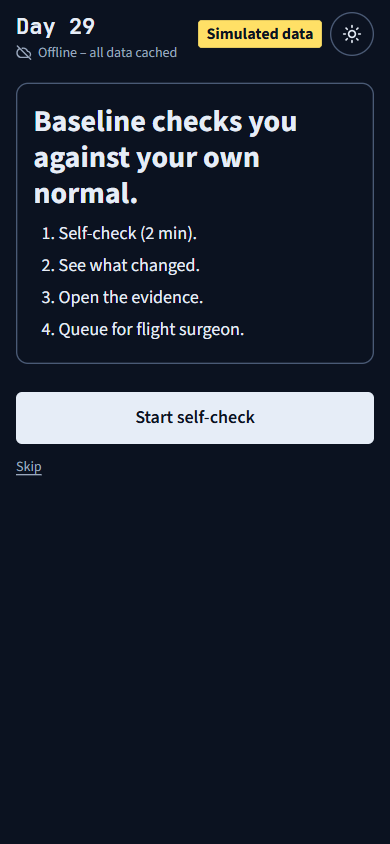
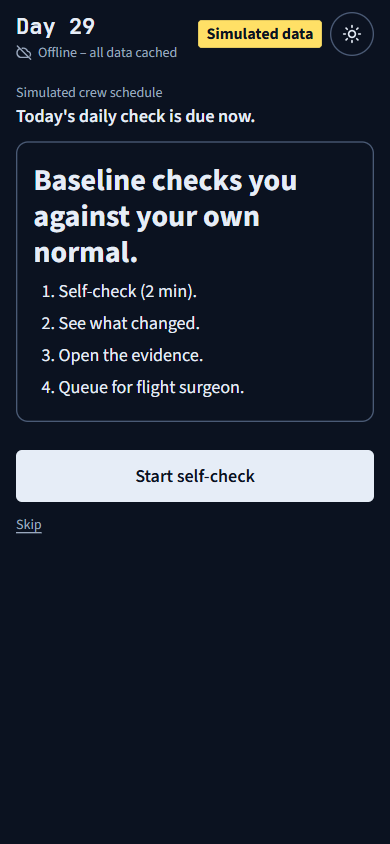
Item 4c: daily check prompt on the first screen, from the simulated crew schedule

Changed region(s): [[0.0308, 0.0924, 0.9846, 0.6469], [0.9538, 0.1232, 0.9846, 0.1848]]

diff --git a/web/index.html b/web/index.html
@@ -10,7 +10,7 @@
 <link rel="preload" href="fonts/jb-mono-regular.woff2?v=366a644383" as="font" type="font/woff2" crossorigin>
 <link rel="stylesheet" href="tokens.css?v=3c1d51d7bf">
 <script src="errors.js?v=8cd9c76036"></script>
-<script src="theme.js?v=47ec0d1ced"></script>
+<script src="theme.js?v=bb3d7a5525"></script>
 <style>
 * { box-sizing: border-box; }
 html { -webkit-text-size-adjust: 100%; }
@@ -94,6 +94,9 @@ a { color: inherit; text-underline-offset: 3px; }
 .rt-big { font-family: var(--mono); font-size: 36px; line-height: 1.1; font-weight: 600; font-variant-numeric: tabular-nums; }
 #rt-again { display: block; }
 
+.daily { margin: 12px 0 0; font-weight: 600; }
+.daily > span { display: block; }
+.daily .meta { font-weight: 400; }
 .guide { margin-top: 12px; padding: 20px 16px; border: 1.5px solid var(--strong); border-radius: 12px; }
 .guide h1 { margin-top: 0; }
 .guide ol { margin: 0; padding-left: 1.4em; }
@@ -273,6 +276,7 @@ fieldset { border: 0; padding: 0; margin: 28px 0 0; min-width: 0; }
 <main>
 
 <section id="guide" aria-labelledby="guide-title">
+  <p class="daily"><span class="meta">Simulated crew schedule</span><span id="daily-line"></span></p>
   <div class="guide">
     <h1 id="guide-title" tabindex="-1">Baseline checks you against your own normal.</h1>
     <ol>
@@ -522,6 +526,6 @@ fieldset { border: 0; padding: 0; margin: 28px 0 0; min-width: 0; }
 <script src="spe.js?v=cdf73caa73"></script>
 <script src="reaction.js?v=0c373ca889"></script>
 <script src="store.js?v=986788a7d2"></script>
-<script src="app.js?v=02552db482"></script>
+<script src="app.js?v=636926be8c"></script>
 </body>
 </html>

diff --git a/web/theme.js b/web/theme.js
@@ -14,13 +14,20 @@
   function saved() {
     try { const t = localStorage.getItem(KEY); return t === "light" || t === "dark" ? t : null; } catch (e) { return null; }
   }
+  // The daily check prompt on the first screen, from the same schedule. saved: the checks on this device (Store.load()),
+  // empty when storage is blocked. Local dates, because saved_at is in UTC. Worked out when the screen is drawn: no timer.
+  function dailyLine(now, saved) {
+    if (saved.some((e) => new Date(e.saved_at).toDateString() === now.toDateString())) return "Today's daily check is done.";
+    if (now.getHours() < SLEEP_END_HOUR) return `Next daily check: ${String(SLEEP_END_HOUR).padStart(2, "0")}:00 (after the planned sleep window).`;
+    return "Today's daily check is due now.";
+  }
   const current = () => document.documentElement.getAttribute("data-theme");
   function set(theme) {
     document.documentElement.setAttribute("data-theme", theme);
     try { localStorage.setItem(KEY, theme); } catch (e) { /* storage blocked: keep it for this visit only */ }
   }
 
-  const api = { SLEEP_START_HOUR, SLEEP_END_HOUR, byClock, current, set };
+  const api = { SLEEP_START_HOUR, SLEEP_END_HOUR, byClock, dailyLine, current, set };
   if (typeof module === "object" && module.exports) module.exports = api;
   else {
     root.Theme = api;

diff --git a/web/app.js b/web/app.js
@@ -290,6 +290,7 @@ function openCheck(check, kept) {
 
 function renderSavedBox() {
   const log = Store.load(), last = log.at(-1);
+  put($("daily-line"), Theme.dailyLine(new Date(), log));
   $("saved-box").hidden = !last;
   if (last) put($("saved-text"), `${log.length} ${log.length === 1 ? "self-check is" : "self-checks are"} saved on this device. The latest is from ${when(last.saved_at)}.`);
 }

diff --git a/tests/test_web.py b/tests/test_web.py
@@ -2,6 +2,7 @@
 
 import hashlib
 import json
+import os
 import re
 import runpy
 import shutil
@@ -135,6 +136,73 @@ def test_default_theme_is_dark_in_the_simulated_sleep_window():
     theme = Path("web/theme.js").read_text(encoding="utf-8")
     assert "Simulated crew schedule, not a NASA figure" in theme
     assert theme.count("try {") == 2, "localStorage read and write are both wrapped"
+
+
+DAILY_JS = """
+const fs = require('fs');
+const S = require('./web/store.js');
+const T = require('./web/theme.js');
+const mem = { d: {}, getItem(k) { return k in this.d ? this.d[k] : null; }, setItem(k, v) { this.d[k] = String(v); }, removeItem(k) { delete this.d[k]; } };
+const blocked = { getItem() { throw new Error('blocked'); }, setItem() { throw new Error('blocked'); }, removeItem() { throw new Error('blocked'); } };
+const at = (d, h, m = 0) => new Date(2026, 10, d, h, m);
+const entry = (date) => ({ saved_at: date.toISOString(), reaction_ms: 300, sleep_hours: 7, mood_1to5: 4 });
+const line = (now, ...saved) => T.dailyLine(now, saved.map(entry));
+// The same file with another wake hour: the prompt must follow the constant, not a copied number.
+const moved = { exports: {} };
+new Function('module', fs.readFileSync('./web/theme.js', 'utf8').replace('SLEEP_END_HOUR = 6', 'SLEEP_END_HOUR = 7'))(moved);
+S.add(entry(at(1, 8)), mem);
+console.log(JSON.stringify({
+  next: [line(at(1, 0)), line(at(1, T.SLEEP_END_HOUR - 1, 59)), line(at(1, 5), at(0, 23))],
+  nextMoved: moved.exports.dailyLine(at(1, 6, 30), []),
+  due: [line(at(1, T.SLEEP_END_HOUR)), line(at(1, 23, 59)), line(at(1, 9), at(0, 23))],
+  dueBlocked: T.dailyLine(at(1, 9), S.load(blocked)),
+  done: [T.dailyLine(at(1, 9), S.load(mem)), line(at(1, 7), at(1, 0, 30)), line(at(1, 23, 59), at(1, 6)), line(at(1, 5), at(1, 1))],
+}));
+"""
+
+
+def daily() -> dict:
+    """In Dhaka, a check saved before 06:00 local has yesterday's UTC date, so a date cut from saved_at would be wrong."""
+    return json.loads(subprocess.run([NODE, "-e", DAILY_JS], capture_output=True, text=True, check=True,
+                                     encoding="utf-8", env={**os.environ, "TZ": "Asia/Dhaka"}).stdout)
+
+
+NEXT_LINE = "Next daily check: 06:00 (after the planned sleep window)."
+DUE_LINE = "Today's daily check is due now."
+DONE_LINE = "Today's daily check is done."
+
+
+@pytest.mark.skipif(NODE is None, reason="node is not installed")
+def test_daily_prompt_before_the_wake_hour_gives_the_next_check_time():
+    """PLAN 4c: the hour comes from SLEEP_END_HOUR in web/theme.js; yesterday's check does not count."""
+    out = daily()
+    assert out["next"] == [NEXT_LINE] * 3
+    assert out["nextMoved"] == "Next daily check: 07:00 (after the planned sleep window)."
+    assert not [p for p in BLOCKED if p in NEXT_LINE.lower()]
+
+
+@pytest.mark.skipif(NODE is None, reason="node is not installed")
+def test_daily_prompt_is_due_from_the_wake_hour_with_no_check_today_or_blocked_storage():
+    out = daily()
+    assert out["due"] == [DUE_LINE] * 3
+    assert out["dueBlocked"] == DUE_LINE
+    assert not [p for p in BLOCKED if p in DUE_LINE.lower()]
+    html = Path("web/index.html").read_text(encoding="utf-8")
+    guide = html[html.index('<section id="guide"'):html.index('<div class="guide">')]
+    assert '<span class="meta">Simulated crew schedule</span><span id="daily-line"></span>' in guide, "first screen, above the self-check"
+    app = Path("web/app.js").read_text(encoding="utf-8")
+    assert 'put($("daily-line"), Theme.dailyLine(new Date(), log));' in app
+    code = app + Path("web/theme.js").read_text(encoding="utf-8")
+    for api in ("Notification", "setInterval", "serviceWorker", "wakeLock"):
+        assert api not in code, f"{api}: on-screen only, nothing wakes the phone"
+
+
+@pytest.mark.skipif(NODE is None, reason="node is not installed")
+def test_daily_prompt_is_done_once_a_check_is_saved_today():
+    """Read through web/store.js. Local dates: a check saved at 00:30 in Dhaka is today, though its UTC date is yesterday."""
+    out = daily()
+    assert out["done"] == [DONE_LINE] * 4
+    assert not [p for p in BLOCKED if p in DONE_LINE.lower()]
 
 
 REACTION_JS = """

diff --git a/README.md b/README.md
@@ -94,7 +94,7 @@ For a repeatable demo, use the **"Use recorded day-29 self-check"** button in st
 
 | Step | Screen | What you see |
 |---|---|---|
-| 1 | **Self-check** | A guide card, then a 5-round reaction test, sleep hours, sleep quality, mood, and a near-vision line. About 2 minutes. |
+| 1 | **Self-check** | A guide card with one line from the simulated crew schedule (daily check due, done or next; on screen only), then a 5-round reaction test, sleep hours, sleep quality, mood, and a near-vision line. About 2 minutes. |
 | 2 | **Console** | "Health status": one chart per signal, seven in all (heart rate, heart rate variability (HRV), blood oxygen, core temperature, sleep, mood and reaction time); a 7 days · 30 days switch (30 by default, same usual range in both). Grey band = your usual range. Orange dot = flagged. Orange ring = being watched. |
 | 3 | **What changed** | Each flag in two lines: today's value against your usual, then a plain status such as "Well outside your usual range, third day running." A signal outside its usual range three days running also gets a trend card under its flag: the three values, the change per day from a least-squares line through them, and whether a straight line from today gets back inside the usual range within 30 days, labelled "Projection from your own last 3 days, not a forecast." |
 | 4 | **Evidence card** | The change in plain words, the numbers, why it matters (study finding in bold, source linked), and "Guidance": one step. "Show the maths" opens a histogram of the days the rule used (28 on day 29), today's line, the usual ± 2 SD lines and the sum in words, e.g. "Today is (338.3 − 281.4) ÷ 16.3 = 3.5 spreads above your usual." |
@@ -102,7 +102,7 @@ For a repeatable demo, use the **"Use recorded day-29 self-check"** button in st
 | 6 | **Next day** | Day 30: each of yesterday's flags compared with today. "Start the demo again" returns to step 1. |
 
 <p align="center">
-  <img src="web/screenshots/0-guide-390.png" width="200" alt="First-open guide card">
+  <img src="web/screenshots/0-guide-390.png" width="200" alt="First-open guide card, with the simulated crew schedule line above it: today's daily check is due now">
   <img src="web/screenshots/1-today-390.png" width="200" alt="Self-check screen">
   <img src="web/screenshots/5-queue-390.png" width="200" alt="Needs flight surgeon attention: the summary in the queue">
   <img src="web/screenshots/6-next-day-390.png" width="200" alt="Day 30 console: one reading is outside the usual range today; heart rate variability is back inside its usual range">
@@ -215,7 +215,7 @@ web/                    the page: index.html, app.js, rules.js, trend.js, projec
 data/fixtures/          simulated 30-day records (clean, anomaly)
 cache/                  NTRS, OSDR and NOAA responses with source URL and fetch time
 docs/                   evidence map, evidence notes, design notes
-tests/                  87 tests
+tests/                  90 tests
 ```
 
 ---
